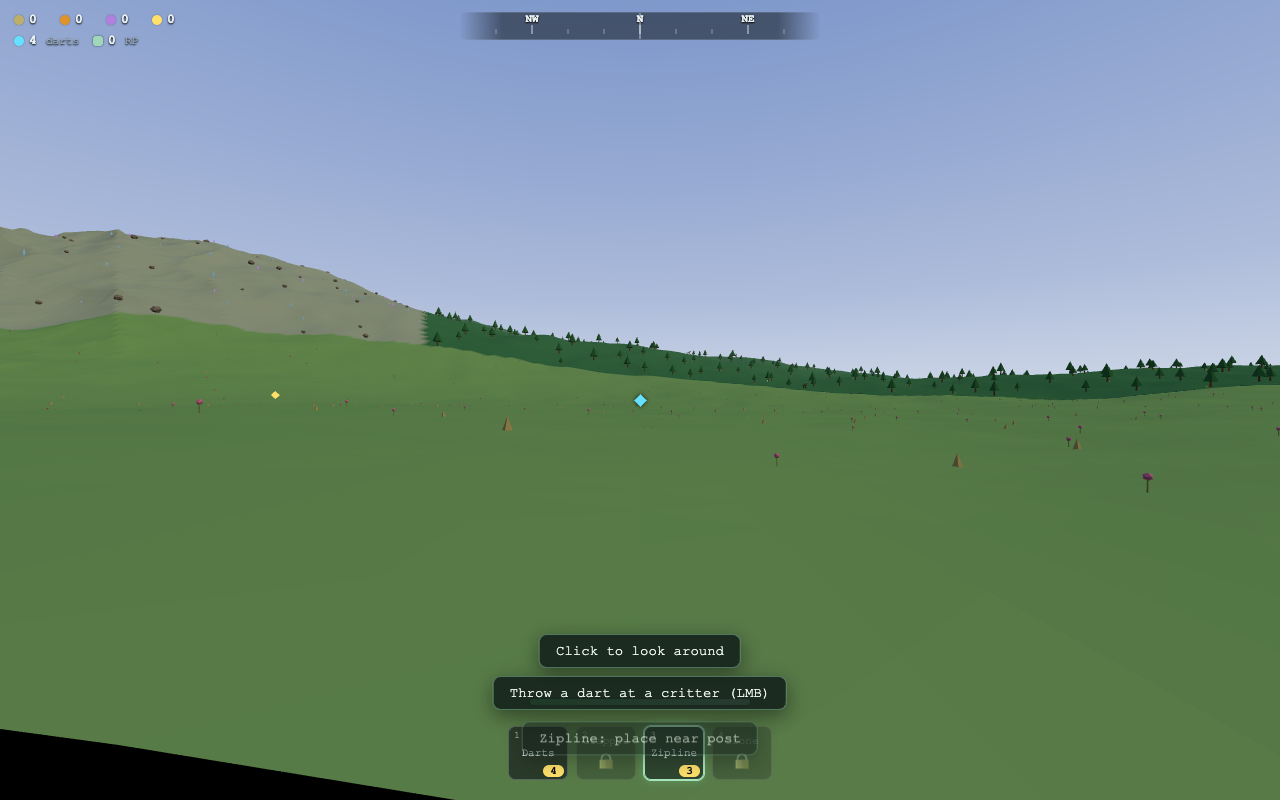
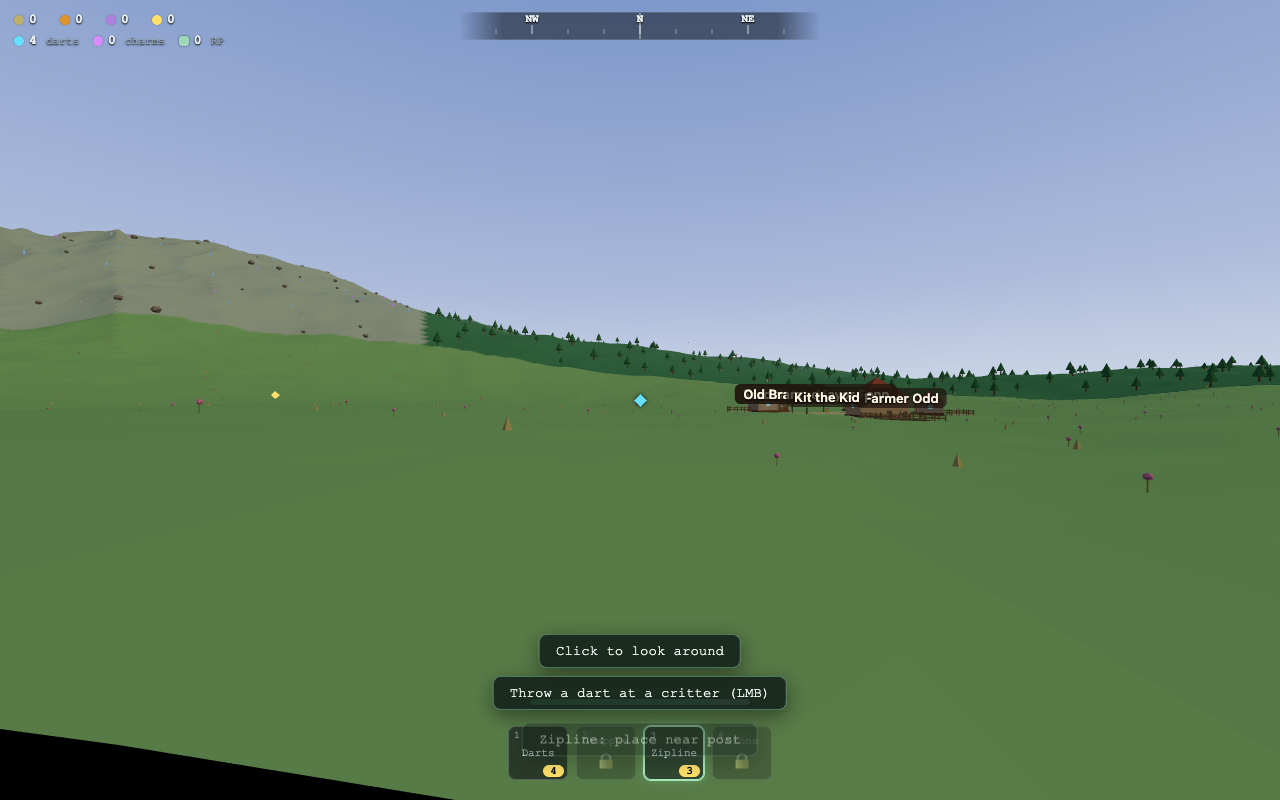
test(e2e): Haven checks — village, bond, barter, farm, mount, 12-species
Adds six Haven verification checks (village NPC labels, bond→roster,
barter reward track + farm deed unlock, farm production tick, mount ride
kinematics, 12-species preview) and a wt-npc-label DOM hook + __game
assignFarm/rosterCount/rewards. Updates the boot/tracking Field Guide
assertions from /8 to /12 (Haven raised the roster to 12 species). New
screenshots 16-20 land in docs/verify. Full run: 15/15 green.

Changed region(s): [[0.5625, 0.4688, 0.75, 0.5312], [0.4375, 0.9062, 0.5625, 0.9375], [0.0625, 0.0312, 0.1875, 0.0625]]

diff --git a/src/village/npcs.ts b/src/village/npcs.ts
@@ -197,6 +197,7 @@ export class NpcManager {
 
   constructor(scene: THREE.Scene) {
     const overlay = document.createElement('div');
+    overlay.className = 'wt-npc-labels';
     overlay.style.cssText = 'position:fixed;inset:0;pointer-events:none;z-index:9;';
     document.body.appendChild(overlay);
 
@@ -209,6 +210,7 @@ export class NpcManager {
       scene.add(group);
 
       const label = document.createElement('div');
+      label.className = 'wt-npc-label';
       label.textContent = def.name;
       label.style.cssText =
         'position:absolute;transform:translate(-50%,-100%);font:600 13px system-ui,sans-serif;' +
